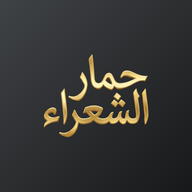
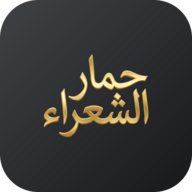
feat: rounded app-tile splash on a warm background
Make the PWA splash read as a proper rounded app tile instead of a flat dark
square in a field of white:
- Round the manifest display icons (192 + 512) into a squircle (~19.5% radius,
  transparent corners) so they render as a tile.
- Set the splash background_color to a warm parchment #efe7da so the dark/gold
  tile pops (theme_color stays #f5f5f4 for the running page).
- Maskable icon (home-screen masking) and apple-touch-icon (iOS rounds it
  itself) left square and untouched.

Note: the actual splash is rendered by Chrome/Android — this is the intended
look but exact masking/size is the browser's call; confirm by reinstalling the
PWA. SW cache -> v37.

diff --git a/sw.js b/sw.js
@@ -1,4 +1,4 @@
-const CACHE_NAME = 'hmittou-cache-v36';
+const CACHE_NAME = 'hmittou-cache-v37';
 const ASSETS = [
   './',
   './index.html',